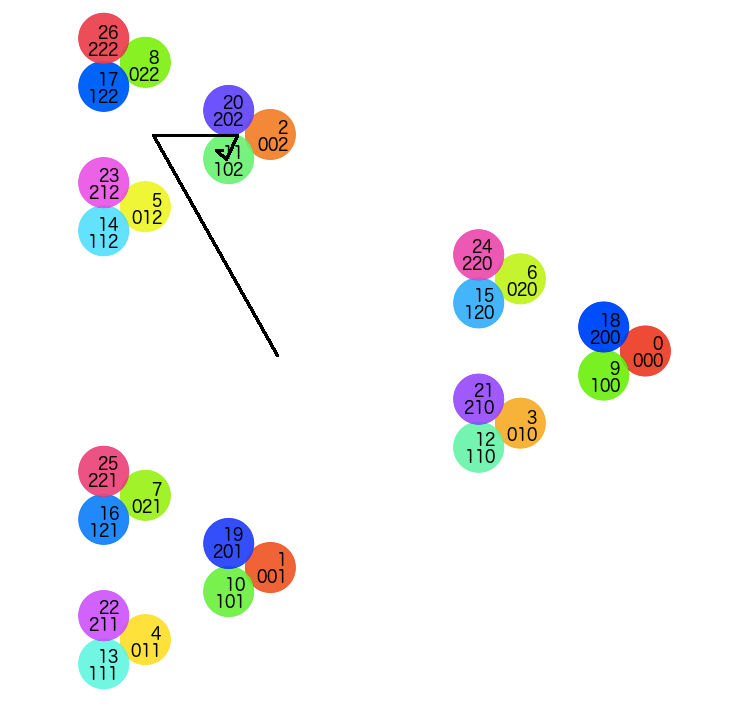
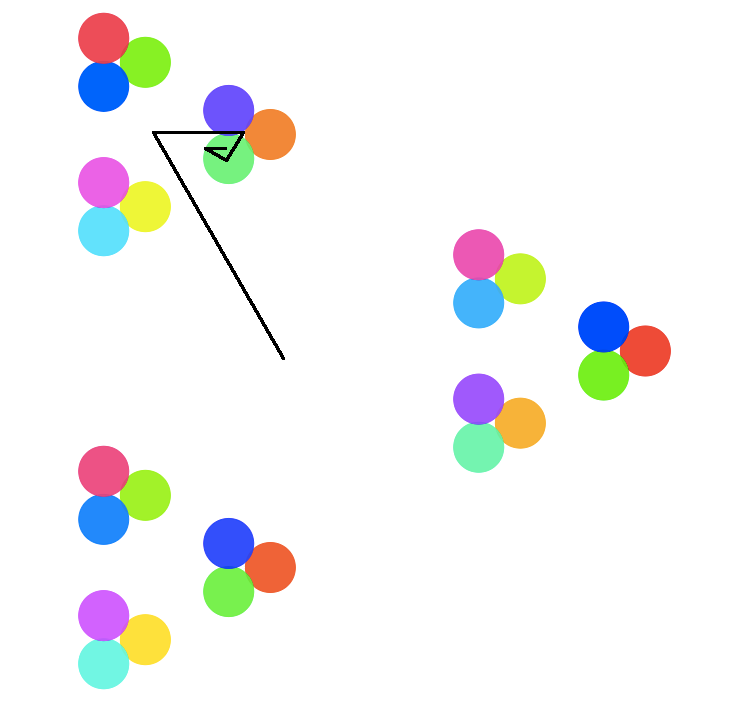
P-adic number post edits

diff --git a/posts/2018-07-25-padic-numbers.html b/posts/2018-07-25-padic-numbers.html
@@ -78,7 +78,7 @@ Normally, we represent numbers in base-10, so the furthest digit right is the 1s
 <p>Representing numbers in different bases isn’t all that unusual, however. That would leave these the same old numbers as always, just with funny costumes. What we’ll be doing differently is that, with each digit left we traverse, we’ll make our steps <em>smaller</em>. Normally, we think of changing the 10s place as being much more of an event than changing the 1s place, with the 100s place even more so. And with our normal additive and subtractive distances, that is true. But we’re looking at cycles here. The first cycle, given by our number modulo 3, is the biggest sorter of numbers. After that, we’re making continual <em>refinements</em> - 6 and 18 are both multiples of 3, so are more like each other than either is to 7 in that regard, but 18 is also a multiple of 9, which makes it a little three-ier than 6. It not only can come back to the start in a cycle of 3, but also in 3 cycles of 3. 54 can manage 3 cycles of 3 cycles of 3.</p>
 <p>This also leads to a principle of <em>coherence</em>. Let’s take our second level of triangles again:</p>
 <div class="figure">
-<img src="../images/3-adic-9.png" alt="3-adic: Focus on 5" />
+<img src="../images/3-adic-9-2.png" alt="3-adic: Focus on 5" />
 <p class="caption">3-adic: Focus on 5</p>
 </div>
 <p>5 is 12 in base-3 notation (2 in the 1s place, 1 in the 3s place, to give 2<em>1 + 1</em>3 = 5). Now, we add another layer:</p>
